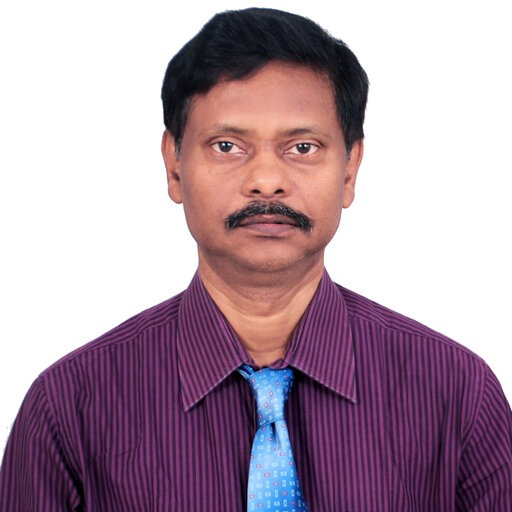
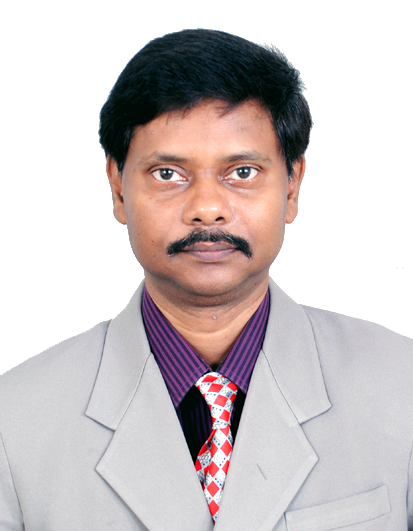
rate

diff --git a/templates/429.html b/templates/429.html
@@ -1,0 +1,14 @@
+{% extends "base.html" %}
+{% block title %}Too many requests — {{ config.name }}{% endblock %}
+{% block content %}
+<section class="page-head">
+  <div class="container notfound">
+    <p class="eyebrow eyebrow-on-dark">429</p>
+    <h1 class="display display-on-dark">Slow down a moment.</h1>
+    <p class="page-head-sub">This connection has made too many requests in a short time. Please wait a bit and try again shortly.</p>
+    <div class="page-head-actions">
+      <a class="btn btn-accent" href="/">Back to home</a>
+    </div>
+  </div>
+</section>
+{% endblock %}

diff --git a/static/css/style.css b/static/css/style.css
@@ -445,7 +445,7 @@ section[id], footer[id] { scroll-margin-top: 88px; }
   font-weight: 800;
   letter-spacing: -0.02em;
   line-height: 1;
-  color: var(--white);
+  color: rgb(250, 116, 32);
   white-space: nowrap;
 }
 

diff --git a/main.py b/main.py
@@ -1,10 +1,14 @@
 """INFRASURE 2027 — FastAPI app entry point."""
 import os
+import time
 
 from fastapi import FastAPI
 from fastapi.responses import RedirectResponse
 from fastapi.staticfiles import StaticFiles
+from slowapi.errors import RateLimitExceeded
+from slowapi.middleware import SlowAPIMiddleware
 
+from ratelimit import limiter
 from site_config import BASE_DIR, SITE_CONFIG
 
 app = FastAPI(
@@ -13,6 +17,10 @@ app = FastAPI(
     redoc_url="/wellnotexpectingyoutobehere1234554321",
     openapi_url=None,
 )
+
+app.state.limiter = limiter
+limiter._exempt_routes.add("starlette.staticfiles.StaticFiles")
+app.add_middleware(SlowAPIMiddleware)
 
 app.mount("/media", StaticFiles(directory=os.path.join(BASE_DIR, "media")), name="media")
 app.mount("/static", StaticFiles(directory=os.path.join(BASE_DIR, "static")), name="static")
@@ -33,6 +41,17 @@ app.include_router(admin_routes.router)
 @app.exception_handler(Redirect)
 def redirect_handler(request, exc: Redirect):
     return RedirectResponse(exc.url, status_code=303)
+
+
+@app.exception_handler(RateLimitExceeded)
+def rate_limit_exceeded(request, exc: RateLimitExceeded):
+    resp = templates.TemplateResponse(request, "429.html", base_ctx(request), status_code=429)
+    try:
+        retry_after = max(1, int(exc.limit.limit.get_expiry() - time.time()))
+    except (AttributeError, TypeError):
+        retry_after = 60
+    resp.headers["Retry-After"] = str(retry_after)
+    return resp
 
 
 @app.exception_handler(404)

diff --git a/app_routes/auth_routes.py b/app_routes/auth_routes.py
@@ -16,6 +16,7 @@ from auth import (
     verify_password,
 )
 from db import insert, one
+from ratelimit import limiter
 
 router = APIRouter()
 
@@ -25,6 +26,7 @@ def _redirect_home_for(user: dict) -> RedirectResponse:
 
 
 @router.get("/register12345")
+@limiter.limit("20/minute")
 def register_form(request: Request):
     if user_from_request(request):
         return _redirect_home_for(user_from_request(request))
@@ -32,6 +34,7 @@ def register_form(request: Request):
 
 
 @router.post("/register12345")
+@limiter.limit("20/minute")
 def register_submit(
     request: Request,
     name: str = Form(""),
@@ -66,6 +69,7 @@ def register_submit(
 
 
 @router.get("/login12345")
+@limiter.limit("20/minute")
 def login_form(request: Request):
     user = user_from_request(request)
     if user:
@@ -74,6 +78,7 @@ def login_form(request: Request):
 
 
 @router.post("/login12345")
+@limiter.limit("20/minute")
 def login_submit(request: Request, email: str = Form(""), password: str = Form("")):
     data = {"email": email, "password": password}
     form, errors = validate(LoginForm, data)

diff --git a/ratelimit.py b/ratelimit.py
@@ -1,0 +1,6 @@
+"""App-wide rate limiter (slowapi)."""
+
+from slowapi import Limiter
+from slowapi.util import get_ipaddr
+
+limiter = Limiter(key_func=get_ipaddr, default_limits=["120/minute"])
